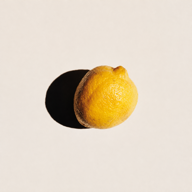
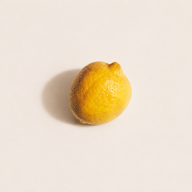
Add files via upload

Changed region(s): [[0.1875, 0.3125, 0.7188, 0.6875]]

diff --git a/app.js b/app.js
@@ -8,6 +8,7 @@ const defaultData=()=>({version:2,theme:'line',themeVersion:2,loans:[],skippedOc
 let db;try{db=JSON.parse(localStorage.getItem(KEY)||'null')}catch{} if(!db||!Array.isArray(db.transactions)||!Array.isArray(db.rules)||!Array.isArray(db.accounts))db=defaultData();if(!Array.isArray(db.loans))db.loans=[];if(!Array.isArray(db.quickTags)||db.quickTags.length!==3)db.quickTags=defaultQuickTags();if(!['line','plain','cat'].includes(db.theme))db.theme='line';if(Number(db.themeVersion||0)<2){db.theme='line';db.themeVersion=2;try{localStorage.setItem(KEY,JSON.stringify(db))}catch{}}if(!db.accounts.some(a=>a.name==='花呗'))db.accounts.push({id:db.accounts.some(a=>a.id==='a5')?'a-huabei':'a5',name:'花呗',balance:0});const save=()=>{try{localStorage.setItem(KEY,JSON.stringify(db));return true}catch{toast('保存失败：设备存储空间不足或处于无痕模式');return false}};const state={page:'home',period:'month',focus:today().slice(0,7),ledgerFilter:'all',ledgerView:'list'}; const app=document.querySelector('#app');const root=document.querySelector('#modal-root');let toastTimer;
 if(!['warm','white'].includes(db.background))db.background='warm';
 let categoryDisplay='percent';
+const nativeInputHomePage=homePage;homePage=()=>nativeInputHomePage().replace('<textarea id="speech-input" rows="1" placeholder="午饭28元，咖啡16元，地铁4元…" aria-label="用文字记录开销"></textarea>','<input id="speech-input" type="text" inputmode="text" autocomplete="off" enterkeyhint="send" placeholder="午饭28元，咖啡16元，地铁4元…" aria-label="用文字记录开销">');
 function toast(s){document.querySelector('.toast')?.remove();let el=document.createElement('div');el.className='toast';el.textContent=s;document.body.append(el);clearTimeout(toastTimer);toastTimer=setTimeout(()=>el.remove(),3200)}
 function normalizeType(t){return ['expense','income','investment'].includes(t)?t:'expense'};function listed(){return [...db.transactions].sort((a,b)=>(b.date||'').localeCompare(a.date||'')||(b.createdAt||0)-(a.createdAt||0))};const sum=(arr,type)=>round(arr.filter(t=>t.type===type).reduce((n,t)=>n+Number(t.amount||0),0));const currentMonth=()=>today().slice(0,7);const monthTx=m=>db.transactions.filter(t=>String(t.date).slice(0,7)===m);const accountName=id=>db.accounts.find(a=>a.id===id)?.name||'未指定';const accountBalance=a=>round(Number(a.balance||0)+db.transactions.filter(t=>t.accountId===a.id).reduce((n,t)=>n+(t.type==='income'?1:-1)*Number(t.amount||0),0));const accountOptions=(selected)=>db.accounts.map(a=>`<option value="${h(a.id)}" ${a.id===selected?'selected':''}>${h(a.name)}</option>`).join('');const catOptions=(selected)=>cats.map(([c])=>`<option ${c===selected?'selected':''} value="${c}">${c}</option>`).join('');function fmtDate(s){return s?.replace(/-/g,'.')||''};function amountHTML(t){return `<span class="amount ${t.type==='income'?'positive':t.type==='investment'?'investment':'negative'}">${t.type==='income'?'+':'−'}${money(t.amount)}</span>`}
 function rowTx(t){return `<div class="swipe-item"><button class="swipe-delete" type="button" data-swipe-delete="${h(t.id)}" aria-label="删除${h(t.note||t.category)}">删除</button><div class="rowitem swipe-foreground" data-open-tx="${h(t.id)}" role="button" tabindex="0"><div class="avatar">${emoji(t.category)}</div><div class="rowitem-body"><div class="rowitem-title">${h(t.note||t.category)}</div><div class="rowitem-meta">${fmtDate(t.date)} · ${h(t.category)}${t.ruleId?' · 自动':''}</div></div>${amountHTML(t)}</div></div>`};function changeMonth(delta){const [y,m]=state.focus.split('-').map(Number);let d=new Date(y,m-1+delta,1);state.focus=`${d.getFullYear()}-${String(d.getMonth()+1).padStart(2,'0')}`;render()}
@@ -229,7 +230,7 @@ app.addEventListener('touchend',e=>{
 },{passive:true});
 app.addEventListener('click',e=>{const view=e.target.closest('[data-ledger-view]');if(!view)return;state.ledgerView=view.dataset.ledgerView;state.page='ledger';render();window.scrollTo(0,0)});
 app.addEventListener('click',e=>{const toggle=e.target.closest('[data-category-display]');if(toggle){categoryDisplay=toggle.dataset.categoryDisplay;render();return}const planned=e.target.closest('[data-skip-planned]');if(!planned)return;const [ruleId,date]=planned.dataset.skipPlanned.split('|');if(!ruleId||!date||!confirm('取消这一次未到期的固定支出？该固定项目的其他周期不会受影响。'))return;db.skippedOccurrences=db.skippedOccurrences||[];const key=ruleId+'|'+date;if(!db.skippedOccurrences.includes(key))db.skippedOccurrences.push(key);save();render();toast('已取消本次固定支出')});
-app.addEventListener('click',e=>{const choice=e.target.closest('[data-background]');if(!choice)return;db.background=choice.dataset.background==='white'?'white':'warm';save();render();toast(db.background==='white'?'已切换为纯白背景':'已切换为暖黄背景')});
+app.addEventListener('click',e=>{const choice=e.target.closest('button.background-choice[data-background]');if(!choice)return;db.background=choice.dataset.background==='white'?'white':'warm';save();render();toast(db.background==='white'?'已切换为纯白背景':'已切换为暖黄背景')});
 app.addEventListener('change',e=>{if(e.target.id==='ledger-month-picker'&&/^\d{4}-\d{2}$/.test(e.target.value)){state.focus=e.target.value;render()}if(e.target.id==='stats-period-select'){state.period=e.target.value;render()}});
 app.addEventListener('click',e=>{const target=e.target.closest('[data-nav],[data-action],[data-open-tx],[data-edit-rule],[data-edit-account],[data-month],[data-period],[data-theme],[data-quick-index],[data-loan],#voice-btn');if(!target)return;if(target.dataset.nav){state.page=target.dataset.nav;render();window.scrollTo(0,0)}if(target.dataset.action){const a=target.dataset.action;({add:()=>txForm(),budget:budgetForm,rule:()=>ruleForm(),account:()=>accountForm(),'loan-add':()=>loanForm(),'export-json':exportJSON,'export-csv':exportCSV,import:()=>document.querySelector('#import-file').click(),clear:()=>{if(prompt('清空不可恢复。请先导出备份。确认清空请输入：清空')!=='清空')return;db=defaultData();save();render();toast('已清空并恢复默认设置')}})[a]?.()}if(target.dataset.openTx){let t=db.transactions.find(x=>x.id===target.dataset.openTx);if(t)txForm(t)}if(target.dataset.editRule){let r=db.rules.find(x=>x.id===target.dataset.editRule);if(r)ruleForm(r)}if(target.dataset.editAccount){let a=db.accounts.find(x=>x.id===target.dataset.editAccount);if(a)accountForm(a)}if(target.dataset.month)changeMonth(Number(target.dataset.month));if(target.dataset.period){state.period=target.dataset.period;render()}if(target.dataset.theme){db.theme=target.dataset.theme;save();render();toast(db.theme==='cat'?'已切换为小猫版':db.theme==='line'?'已切换为高级线稿':'已切换为质感生活版')}if(target.dataset.loan){const l=db.loans.find(x=>x.id===target.dataset.loan);if(l)loanForm(l)}if(target.dataset.quickIndex!==undefined)quickTagForm(Number(target.dataset.quickIndex));if(target.id==='voice-btn')speech()});app.addEventListener('change',e=>{if(e.target.id==='ledger-filter'){state.ledgerFilter=e.target.value;render()}if(e.target.dataset.toggleRule){const r=db.rules.find(x=>x.id===e.target.dataset.toggleRule);if(r){r.active=e.target.checked;save();render();toast(r.active?'已开启循环项目':'已暂停循环项目')}}});app.addEventListener('submit',e=>{if(e.target.id==='composer'){e.preventDefault();preview(e.target.querySelector('textarea').value)}});root.addEventListener('click',e=>{if(e.target.closest('[data-close]'))closeModal()});document.addEventListener('keydown',e=>{if(e.key==='Escape')closeModal();const t=e.target.closest?.('[data-open-tx],[data-nav][role="button"]');if(t&&(e.key==='Enter'||e.key===' ')){e.preventDefault();t.click()}});render();if('serviceWorker'in navigator&&location.protocol!=='file:')navigator.serviceWorker.register('./sw.js').catch(()=>{});
 })();

diff --git a/sw.js b/sw.js
@@ -1,5 +1,5 @@
-const CACHE='lemon-ledger-v37';
-const ASSETS=['./','./index.html','./style.css','./app.js','./manifest.webmanifest','./icon-192.png','./icon-512.png','./lemon-transparent.png','./fig-transparent.png','./tomato-transparent.png','./category-cats-v25.png','./category-plain-v27.png','./category-extra-v28.png'];
+const CACHE='lemon-ledger-v40';
+const ASSETS=['./','./index.html','./style.css','./app.js','./manifest.webmanifest','./icon-192.png','./icon-512.png','./app-icon-v38.png','./lemon-transparent.png','./fig-transparent.png','./tomato-transparent.png','./category-cats-v25.png','./category-plain-v27.png','./category-extra-v28.png'];
 self.addEventListener('install',e=>{e.waitUntil(caches.open(CACHE).then(c=>c.addAll(ASSETS)));self.skipWaiting()});
 self.addEventListener('activate',e=>{e.waitUntil(caches.keys().then(keys=>Promise.all(keys.filter(k=>k!==CACHE).map(k=>caches.delete(k)))));self.clients.claim()});
 self.addEventListener('fetch',e=>{if(e.request.method!=='GET'||new URL(e.request.url).origin!==self.location.origin)return;e.respondWith(fetch(e.request).then(r=>{if(r.ok){const copy=r.clone();caches.open(CACHE).then(c=>c.put(e.request,copy))}return r}).catch(()=>caches.match(e.request)))});

diff --git a/style.css b/style.css
@@ -156,3 +156,7 @@ html[data-background="white"] .ledger-view-switch button:not(.active){background
 html[data-background="white"] .theme-choice.active,
 html[data-background="white"] .background-choice.active,
 html[data-background="white"] .ledger-view-switch button.active{background:#fff!important;box-shadow:0 1px 7px rgba(31,28,14,.035)}
+
+/* v39: use a native single-line text field for reliable iOS editing. */
+.composer input#speech-input{border:0;outline:none!important;min-width:0;height:30px;padding:4px 5px;flex:1;background:transparent;color:var(--ink);font-size:16px;line-height:22px;-webkit-appearance:none;appearance:none}
+.composer input#speech-input::placeholder{color:#8d8c84;opacity:1}
